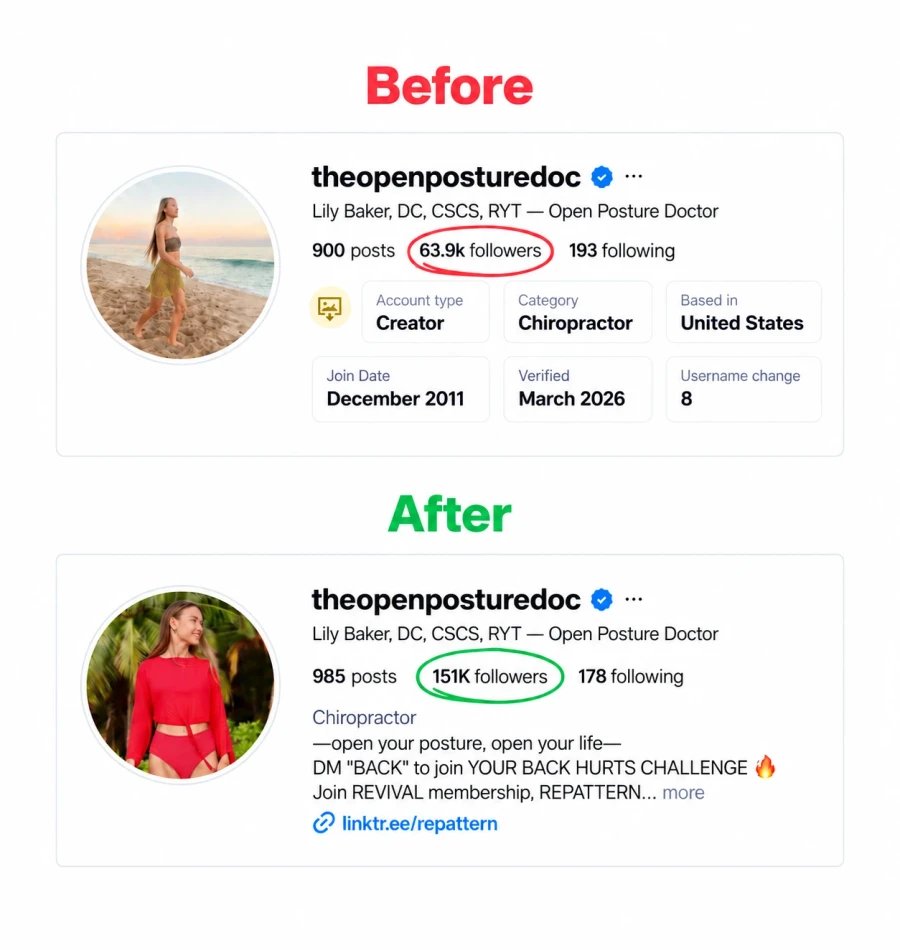
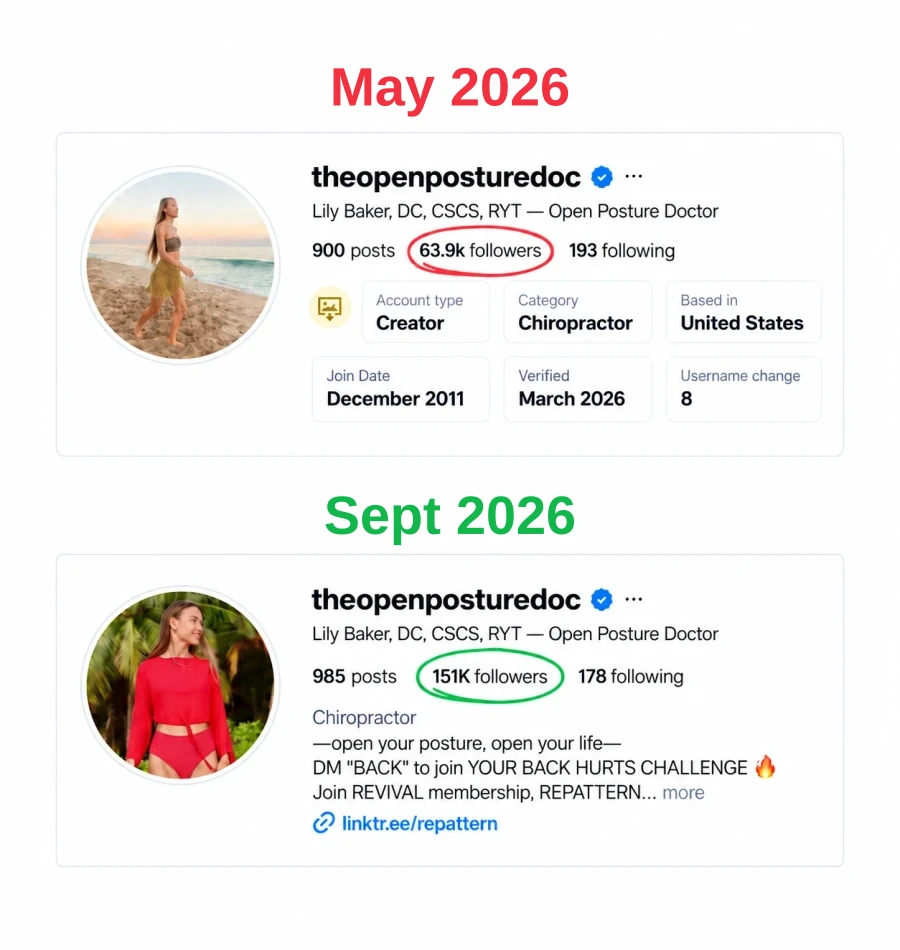
Doctor page: Kasper's review fixes, moved to /doctors (#156)
* Doctor page: move to /doctors, new How it works, Sonia video, May/Sept labels, no enlarge, phone sizes

Claude-Session: https://claude.ai/code/session_01CMLq1QHSgx9CAik4rditGy

* docs: event map names /doctors as the doctor offer page

Claude-Session: https://claude.ai/code/session_01CMLq1QHSgx9CAik4rditGy

* doctors: much smaller rounded corners (2 to 4px)

Claude-Session: https://claude.ai/code/session_01CMLq1QHSgx9CAik4rditGy

---------

Changed region(s): [[0.3422, 0.5189, 0.6533, 0.58], [0.3733, 0.0611, 0.6533, 0.1221]]

diff --git a/docs/meta-ads/README.md b/docs/meta-ads/README.md
@@ -136,8 +136,9 @@ captured (as a JSON blob on the HubSpot contact — §6 decisions).
 | `PageView` | every page | base pixel (`MetaPixel.astro` in `Layout.astro`; manual snippet in `public/ai-invite/*.html`) |
 | `ViewContent` (content_name `apply` / `call` / `quiz`) | `/apply`, `/call`, `/quiz` | `metaEvent` prop on `Layout` |
 | `ViewContent` (content_name `danny_vsl` / `baya_vsl` / `success_stories`) | `/apply2`, `/apply3`, `/success-stories` | `metaEvent` prop on `Layout`. **The content_name deliberately does NOT match the URL**: the pages were renamed `/danny_vsl`→`/apply2` and `/baya_vsl`→`/apply3` on 2026-08-28, but the param kept its client-named value so Ads Manager still shows which client's page fired — `apply2`/`apply3` would be unreadable in reporting. Renaming the param would also break continuity with data already collected. Leave it. |
-| `ViewContent` (content_name `doctor_offer`) | `/apply4` | `metaEvent` prop on `Layout`. Doctor offer page for cold Meta ads (brief 2026-09-27). |
-| `Lead` (param `content_name` = `doctor_offer`) | `/apply4`, on submit of the page's own step-1 form | Brief: "Fire the Meta pixel Lead event when the form is submitted." Fires for every completed application, including under-$2,000 ones turned away on the page. /apply4 does NOT load the `IClosedEmbed` bridge (its iClosed calendar is injected after the form), so the booking itself fires no browser `Lead`; iClosed's native integration and the server-side `Schedule` still apply. **Different meaning from `Lead` on the other apply pages (booking)**; filter by `content_name` in reporting. |
+| `ViewContent` (content_name `doctor_offer`) | `/doctors` (was `/apply4`) | `metaEvent` prop on `Layout`. Doctor offer page for cold Meta ads (brief 2026-09-27). |
+| `Schedule` (content_name `doctor_offer`) | `/apply4-thank-you` | Booked-call fallback for the doctor offer. iClosed "Doctor Strategy Call" redirects here after booking. Fires `Schedule`, not `Lead`, because `/doctors` already fired `Lead` at form submit. |
+| `Lead` (param `content_name` = `doctor_offer`) | `/doctors`, on submit of the page's own step-1 form | Brief: "Fire the Meta pixel Lead event when the form is submitted." Fires for every completed application, including under-$2,000 ones turned away on the page. /doctors does NOT load the `IClosedEmbed` bridge (its iClosed calendar is injected after the form), so the booking itself fires no browser `Lead`; iClosed's native integration and the server-side `Schedule` still apply. **Different meaning from `Lead` on the other apply pages (booking)**; filter by `content_name` in reporting. |
 | ~~`iclosed_potential` / `iclosed_qualified` / `iclosed_disqualified`~~ (custom, REMOVED 2026-08-17) | — | Used to fire from the postMessage bridge in `IClosedEmbed.astro`. Duplicated iClosed's own native Meta integration, which already fires `Potential`/`Qualified`/`Disqualified` (capitalized) browser+server, deduped by `event_id`. Removed after confirming via Meta Ads Manager that no custom conversion or audience depended on the lowercase names. Use the native capitalized events for any mid-funnel retargeting/fallback need. |
 | **`Lead`** ← every booking | booking moment (bridge) AND `/thank-you` / `/quiz/thank-you` (fallback) | bridge fires on `iclosed.call_scheduled` with a fresh `eventID`, stores it in `sessionStorage.ss_booked_eid`; the thank-you page re-fires with the SAME ID (Meta dedupes on event name + ID, 48h) or a fresh ID if the bridge missed. `Lead` uses `"lead-"+eventID`. Fires for **all** bookings, qualified or not. |
 | **`Schedule`** ← ACQUISITION bookings only (CHANGED 2026-08-27) | **server-side only**, via Conversions API | No longer fired from the browser. n8n workflow **"Sales - Booked Call to Meta CAPI"** (`s8lsPpKqWYhscLPV`) receives iClosed's Contact-by-status webhook (status **STRATEGY_CALL_BOOKED**) at `/webhook/iclosed-booked-capi` and POSTs a standard `Schedule` event to the dataset when `is_acquisition && hasCall && status !== "disqualified"`. **The gate is `latestCall` being present, NOT an iClosed status string** - verified against live payloads: iClosed assigns no qualified/disqualified verdict on this account (`disqualifyingGroup` is empty; only `potential` and `strategy_call_booked` ever appear), so an earlier build that required `status === "qualified"` would have never fired at all. `is_acquisition` also keeps the `check-in` calendar out, so a returning client rebooking is never counted as a new conversion. Deduped durably in the `meta_capi_sent` Data Table (`0PRw0Vtw8eKGUche`), because iClosed re-fires status events and Meta's own event_id dedupe only covers 48h. User data is SHA-256 hashed (email, phone, first, last) plus `fbc`/`fbp` when iClosed captured them. |
@@ -674,4 +675,6 @@ both phone and email (§9.5), so halve it before quoting it as people.
   `claude/meta-ads-infrastructure-w47kkb`. Not done: n8n router fix (needs
   go-ahead), everything in §7 manual checklists.
 
-| 2026-09-29 | Added `/apply4-thank-you` (white and blue clone of `/thank-you` for the doctor offer). It fires `Schedule` (`content_name: doctor_offer`), not `Lead`, because `/apply4` already fires `Lead` at form submit. Set the iClosed "Doctor Strategy Call" redirect to this URL in iClosed. | Avoids double-counting Lead; keeps the purple `/thank-you` untouched for the other funnels |
+| 2026-09-29 | Added `/apply4-thank-you` (white and blue clone of `/thank-you` for the doctor offer). It fires `Schedule` (`content_name: doctor_offer`), not `Lead`, because `/doctors` already fires `Lead` at form submit. Set the iClosed "Doctor Strategy Call" redirect to this URL in iClosed. | Avoids double-counting Lead; keeps the purple `/thank-you` untouched for the other funnels |
+
+| 2026-09-29 | The doctor page moved from `/apply4` to `/doctors` (`/apply4` redirects there, without query strings). The thank-you page stays at `/apply4-thank-you`. Pixel events unchanged (`ViewContent`/`Lead` with `content_name: doctor_offer`). | Kasper's request; point ads at `/doctors` |
